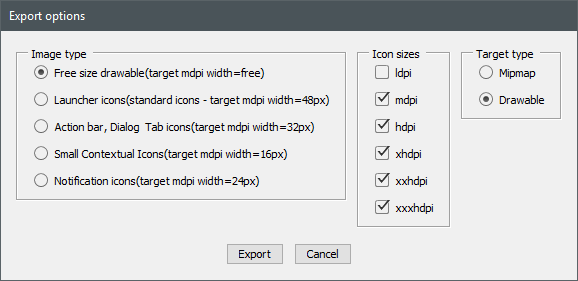
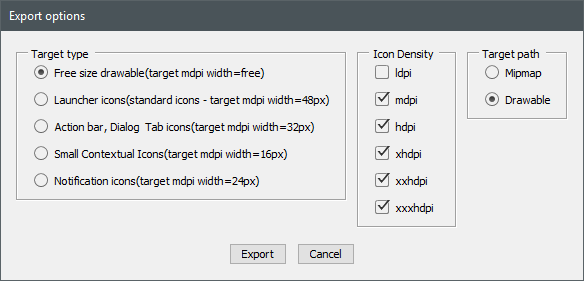
A bit change on labels

diff --git a/PhotoshopToAndroidExporterScript.jsx b/PhotoshopToAndroidExporterScript.jsx
@@ -168,7 +168,7 @@ function makeOutPut(multiplayer, mdpi, suffix, resAddress) {
 
 
 function createOneItemSelectionPanel0(array, parent) {
-    var panel = parent.add("panel", undefined, "Image type");
+    var panel = parent.add("panel", undefined, "Target type");
 	panel.alignment = "top";
     panel.alignChildren = "left";
     for(var i = 0; i < array.length;  i++) {
@@ -188,7 +188,7 @@ function createOneItemSelectionPanel0(array, parent) {
     }
 };
 function createMultiSelectionPanel1(array, parent) {
-    var panel = parent.add("panel", undefined, "Icon sizes");
+    var panel = parent.add("panel", undefined, "Icon Density");
     panel.alignChildren = "left";
     for(var i = 0; i < array.length;  i++) {
         var cb = panel.add("checkbox", undefined, "\u00A0" + array[i].name);
@@ -207,7 +207,7 @@ function createMultiSelectionPanel1(array, parent) {
     }
 };
 function createOneItemSelectionPanel2(array, parent) {
-    var panel = parent.add("panel", undefined, "Target type");
+    var panel = parent.add("panel", undefined, "Target path");
 	panel.alignment = "top";
     panel.alignChildren = "left";
     for(var i = 0; i < array.length;  i++) {
